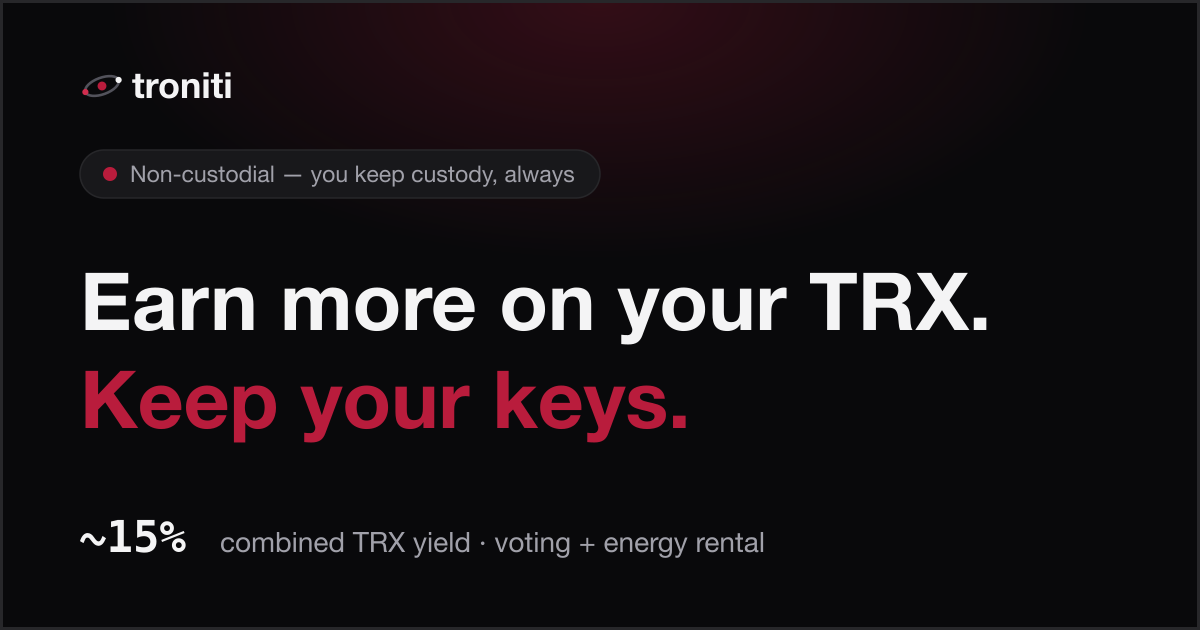
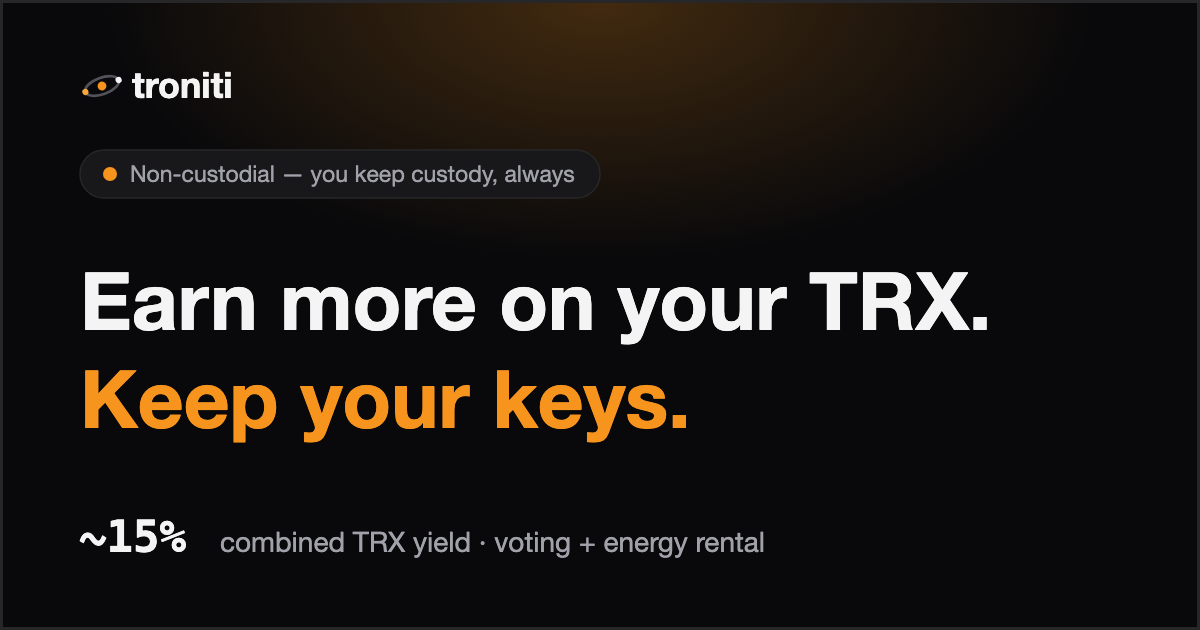
feat(brand): the terminal system — orange rebrand, tokens + brand doc
The X/CMC visual system (warm orange #f7941d on ink #0d0f14, terminal
aesthetic) becomes the product brand: design/brand.md is the token source of
truth (extracted from the reference set in design/brand/, not eyeballed).
Semantics get cleaner: orange = brand only, red-500 = danger only (garnet
retired), green = live, warning moves to yellow (amber read as brand). On-
brand text is ink, never white (contrast). Logo/favicon/logo-mark/og-image
recolored, og-image.png re-rendered; hero figure ~15% carries the accent.

diff --git a/src/styles/global.css b/src/styles/global.css
@@ -1,21 +1,26 @@
 @import "tailwindcss";
 
 @theme {
-  /* base — dark neutral (zinc) */
-  --color-bg: #09090b;          /* zinc-950 — page background */
+  /* The terminal system — tokens extracted from the X/CMC reference set; the single source
+     of truth is design/brand.md (mirror any change there AND in the cabinet's theme). */
+
+  /* base — ink + dark neutral (zinc) */
+  --color-bg: #0d0f14;          /* ink — page + terminal background (brand.md) */
   --color-bg-card: #18181b;     /* zinc-900 — cards / panels */
   --color-bg-elevated: #1f1f23; /* slightly raised surface */
+  --color-bg-brand-soft: #241c14; /* warm brand-tinted panel fill — sparingly */
   --color-border: #27272a;      /* zinc-800 — 1px card borders */
+  --color-ink: #0d0f14;         /* = bg; named for text ON brand fills (never white there) */
   --color-text: #f4f4f5;        /* zinc-100 */
   --color-text-muted: #a1a1aa;  /* zinc-400 */
 
-  /* brand — red = identity, used sparingly (never danger) */
-  --color-accent: #b91c3c;      /* deep garnet crimson — refined, not neon */
-  --color-accent-hover: #d12d4e;
+  /* brand — warm orange = identity (never a state); on-brand text is ink, never white */
+  --color-accent: #f7941d;
+  --color-accent-hover: #f9a63f;
 
-  /* states */
-  --color-warning: #f59e0b;     /* amber-500 — attention / low runway */
-  --color-negative: #9f1239;    /* muted red — genuine failure */
+  /* states — red is danger ONLY now (freed from brand duty) */
+  --color-warning: #facc15;     /* yellow-400 — attention / low runway (amber reads as brand) */
+  --color-negative: #ef4444;    /* red-500 — genuine failure / CANNOT */
   --color-live: #22c55e;        /* green-500 — system "live" status only (not P&L) */
 
   /* type */
